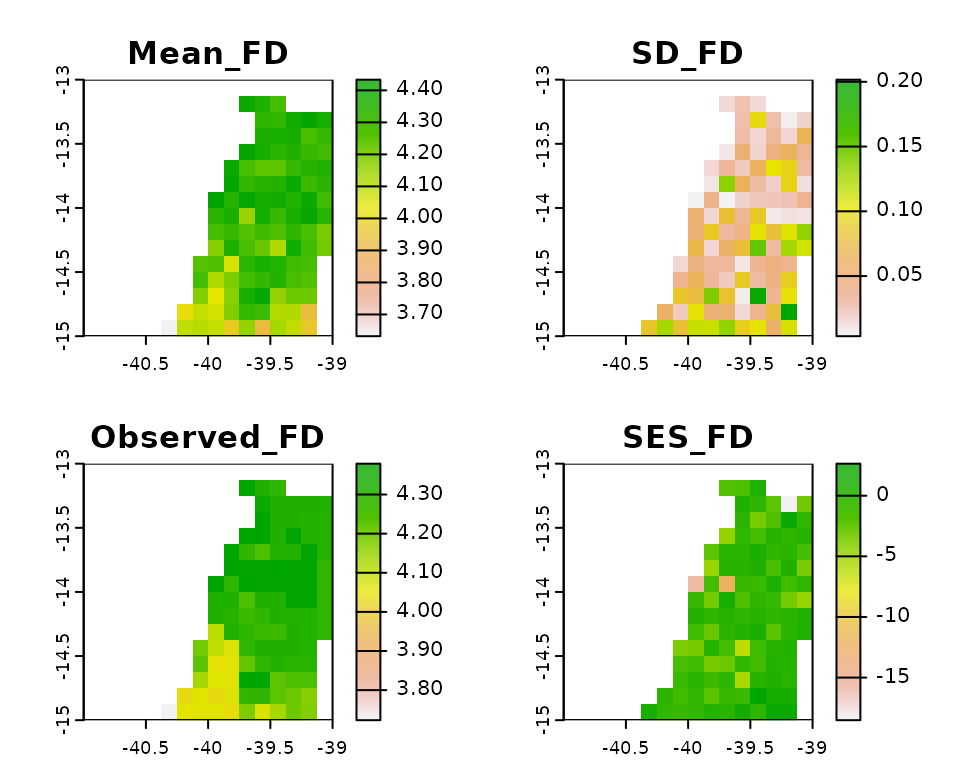
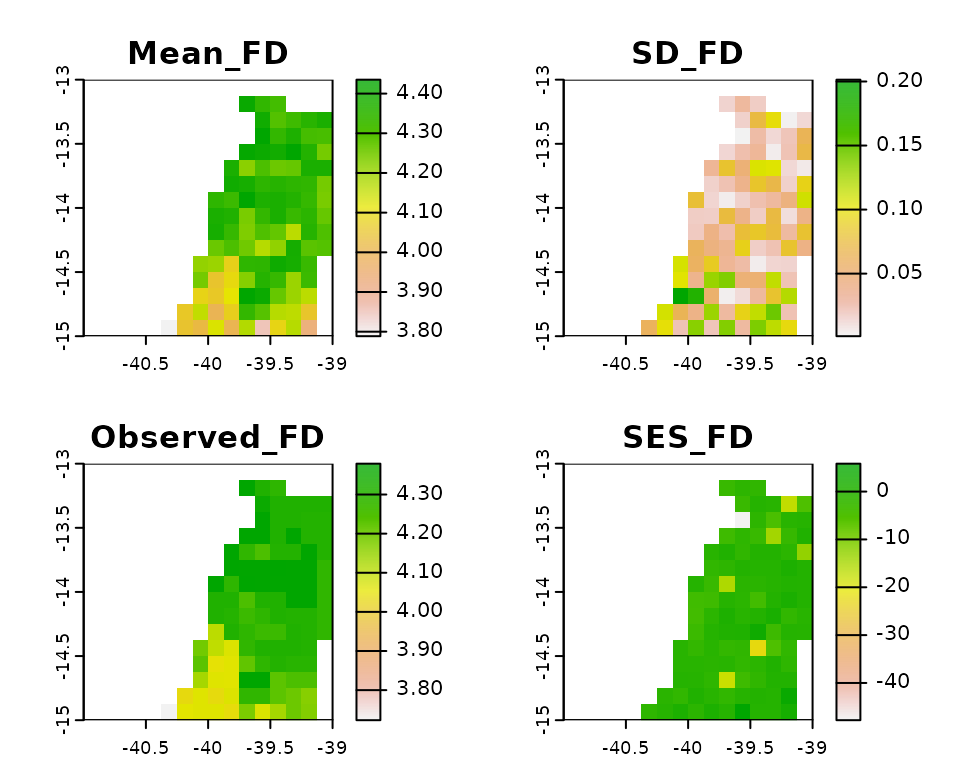
Deploying to gh-pages from @ flaviomoc/divraster@cff3ff2038a092ec3e3b045669ea27e907ea1d2a 🚀

diff --git a/articles/DMSD-vignette.html b/articles/DMSD-vignette.html
@@ -260,9 +260,9 @@ PD alpha diversity.</p>
 <span><span class="co">#&gt; extent      : -41, -39, -15, -13  (xmin, xmax, ymin, ymax)</span></span>
 <span><span class="co">#&gt; coord. ref. : lon/lat WGS 84 (EPSG:4326) </span></span>
 <span><span class="co">#&gt; source(s)   : memory</span></span>
-<span><span class="co">#&gt; names       :  Mean_FD,      SD_FD, Observed_FD,     SES_FD </span></span>
-<span><span class="co">#&gt; min values  : 3.632123, 0.00358876,    3.723151, -18.514881 </span></span>
-<span><span class="co">#&gt; max values  : 4.433342, 0.20163324,    4.378846,   2.643176</span></span>
+<span><span class="co">#&gt; names       :  Mean_FD,       SD_FD, Observed_FD,     SES_FD </span></span>
+<span><span class="co">#&gt; min values  : 3.788652, 0.001156117,    3.723151, -47.781098 </span></span>
+<span><span class="co">#&gt; max values  : 4.435082, 0.201421583,    4.378846,   5.830782</span></span>
 <span><span class="fu">terra</span><span class="fu">::</span><span class="fu"><a href="https://rdrr.io/pkg/terra/man/plot.html" class="external-link">plot</a></span><span class="op">(</span><span class="va">ses.fd</span>, main <span class="op">=</span> <span class="fu"><a href="https://rdrr.io/r/base/names.html" class="external-link">names</a></span><span class="op">(</span><span class="va">ses.fd</span><span class="op">)</span><span class="op">)</span></span></code></pre></div>
 <p><img src="DMSD-vignette_files/figure-html/unnamed-chunk-6-1.png" width="480" style="display: block; margin: auto;"></p>
 <div class="sourceCode" id="cb8"><pre class="downlit sourceCode r">
@@ -276,9 +276,9 @@ PD alpha diversity.</p>
 <span><span class="co">#&gt; extent      : -41, -39, -15, -13  (xmin, xmax, ymin, ymax)</span></span>
 <span><span class="co">#&gt; coord. ref. : lon/lat WGS 84 (EPSG:4326) </span></span>
 <span><span class="co">#&gt; source(s)   : memory</span></span>
-<span><span class="co">#&gt; names       :  Mean_PD,      SD_PD, Observed_PD,    SES_PD </span></span>
-<span><span class="co">#&gt; min values  : 1619.199,  0.6033336,    1623.451, -14.72788 </span></span>
-<span><span class="co">#&gt; max values  : 1876.122, 87.5025025,    1880.676,  24.35561</span></span>
+<span><span class="co">#&gt; names       :  Mean_PD,     SD_PD, Observed_PD,     SES_PD </span></span>
+<span><span class="co">#&gt; min values  : 1631.965,  1.414543,    1623.451, -10.944970 </span></span>
+<span><span class="co">#&gt; max values  : 1873.478, 63.758718,    1880.676,   8.716257</span></span>
 <span><span class="fu">terra</span><span class="fu">::</span><span class="fu"><a href="https://rdrr.io/pkg/terra/man/plot.html" class="external-link">plot</a></span><span class="op">(</span><span class="va">ses.pd</span>, main <span class="op">=</span> <span class="fu"><a href="https://rdrr.io/r/base/names.html" class="external-link">names</a></span><span class="op">(</span><span class="va">ses.pd</span><span class="op">)</span><span class="op">)</span></span></code></pre></div>
 <p><img src="DMSD-vignette_files/figure-html/unnamed-chunk-6-2.png" width="480" style="display: block; margin: auto;"></p>
 </div>

diff --git a/reference/spat.rand.html b/reference/spat.rand.html
@@ -139,9 +139,9 @@ a calling function.</p></dd>
 <span class="r-out co"><span class="r-pr">#&gt;</span> extent      : 0, 1, 0, 1  (xmin, xmax, ymin, ymax)</span>
 <span class="r-out co"><span class="r-pr">#&gt;</span> coord. ref. : lon/lat WGS 84 (EPSG:4326) </span>
 <span class="r-out co"><span class="r-pr">#&gt;</span> source(s)   : memory</span>
-<span class="r-out co"><span class="r-pr">#&gt;</span> names       : Mean_PD,      SD_PD, Observed_PD,    SES_PD </span>
-<span class="r-out co"><span class="r-pr">#&gt;</span> min values  : 3.30560, 0.01467107,    3.359948, -25.19781 </span>
-<span class="r-out co"><span class="r-pr">#&gt;</span> max values  : 9.46449, 1.18641680,   10.571964,  16.52368 </span>
+<span class="r-out co"><span class="r-pr">#&gt;</span> names       :  Mean_PD,      SD_PD, Observed_PD,    SES_PD </span>
+<span class="r-out co"><span class="r-pr">#&gt;</span> min values  : 3.454588, 0.05575555,    3.359948, -9.276432 </span>
+<span class="r-out co"><span class="r-pr">#&gt;</span> max values  : 9.706179, 1.00561883,   10.571964,  4.928280 </span>
 <span class="r-in"><span><span class="fu">spat.rand</span><span class="op">(</span><span class="va">x</span>, <span class="va">traits</span>, <span class="fl">3</span>, <span class="st">"site"</span><span class="op">)</span></span></span>
 <span class="r-out co"><span class="r-pr">#&gt;</span> class       : SpatRaster </span>
 <span class="r-out co"><span class="r-pr">#&gt;</span> dimensions  : 8, 8, 4  (nrow, ncol, nlyr)</span>
@@ -150,8 +150,8 @@ a calling function.</p></dd>
 <span class="r-out co"><span class="r-pr">#&gt;</span> coord. ref. : lon/lat WGS 84 (EPSG:4326) </span>
 <span class="r-out co"><span class="r-pr">#&gt;</span> source(s)   : memory</span>
 <span class="r-out co"><span class="r-pr">#&gt;</span> names       :   Mean_FD,       SD_FD, Observed_FD,    SES_FD </span>
-<span class="r-out co"><span class="r-pr">#&gt;</span> min values  : 0.4651433, 0.003248247,   0.2374052, -56.75499 </span>
-<span class="r-out co"><span class="r-pr">#&gt;</span> max values  : 1.2424654, 0.274791786,   1.2493508,  12.23714 </span>
+<span class="r-out co"><span class="r-pr">#&gt;</span> min values  : 0.4503002, 0.009422661,   0.2374052, -9.049641 </span>
+<span class="r-out co"><span class="r-pr">#&gt;</span> max values  : 1.1257283, 0.255169108,   1.2493508, 29.453890 </span>
 </code></pre></div>
     </div>
   </main><aside class="col-md-3"><nav id="toc"><h2>On this page</h2>
